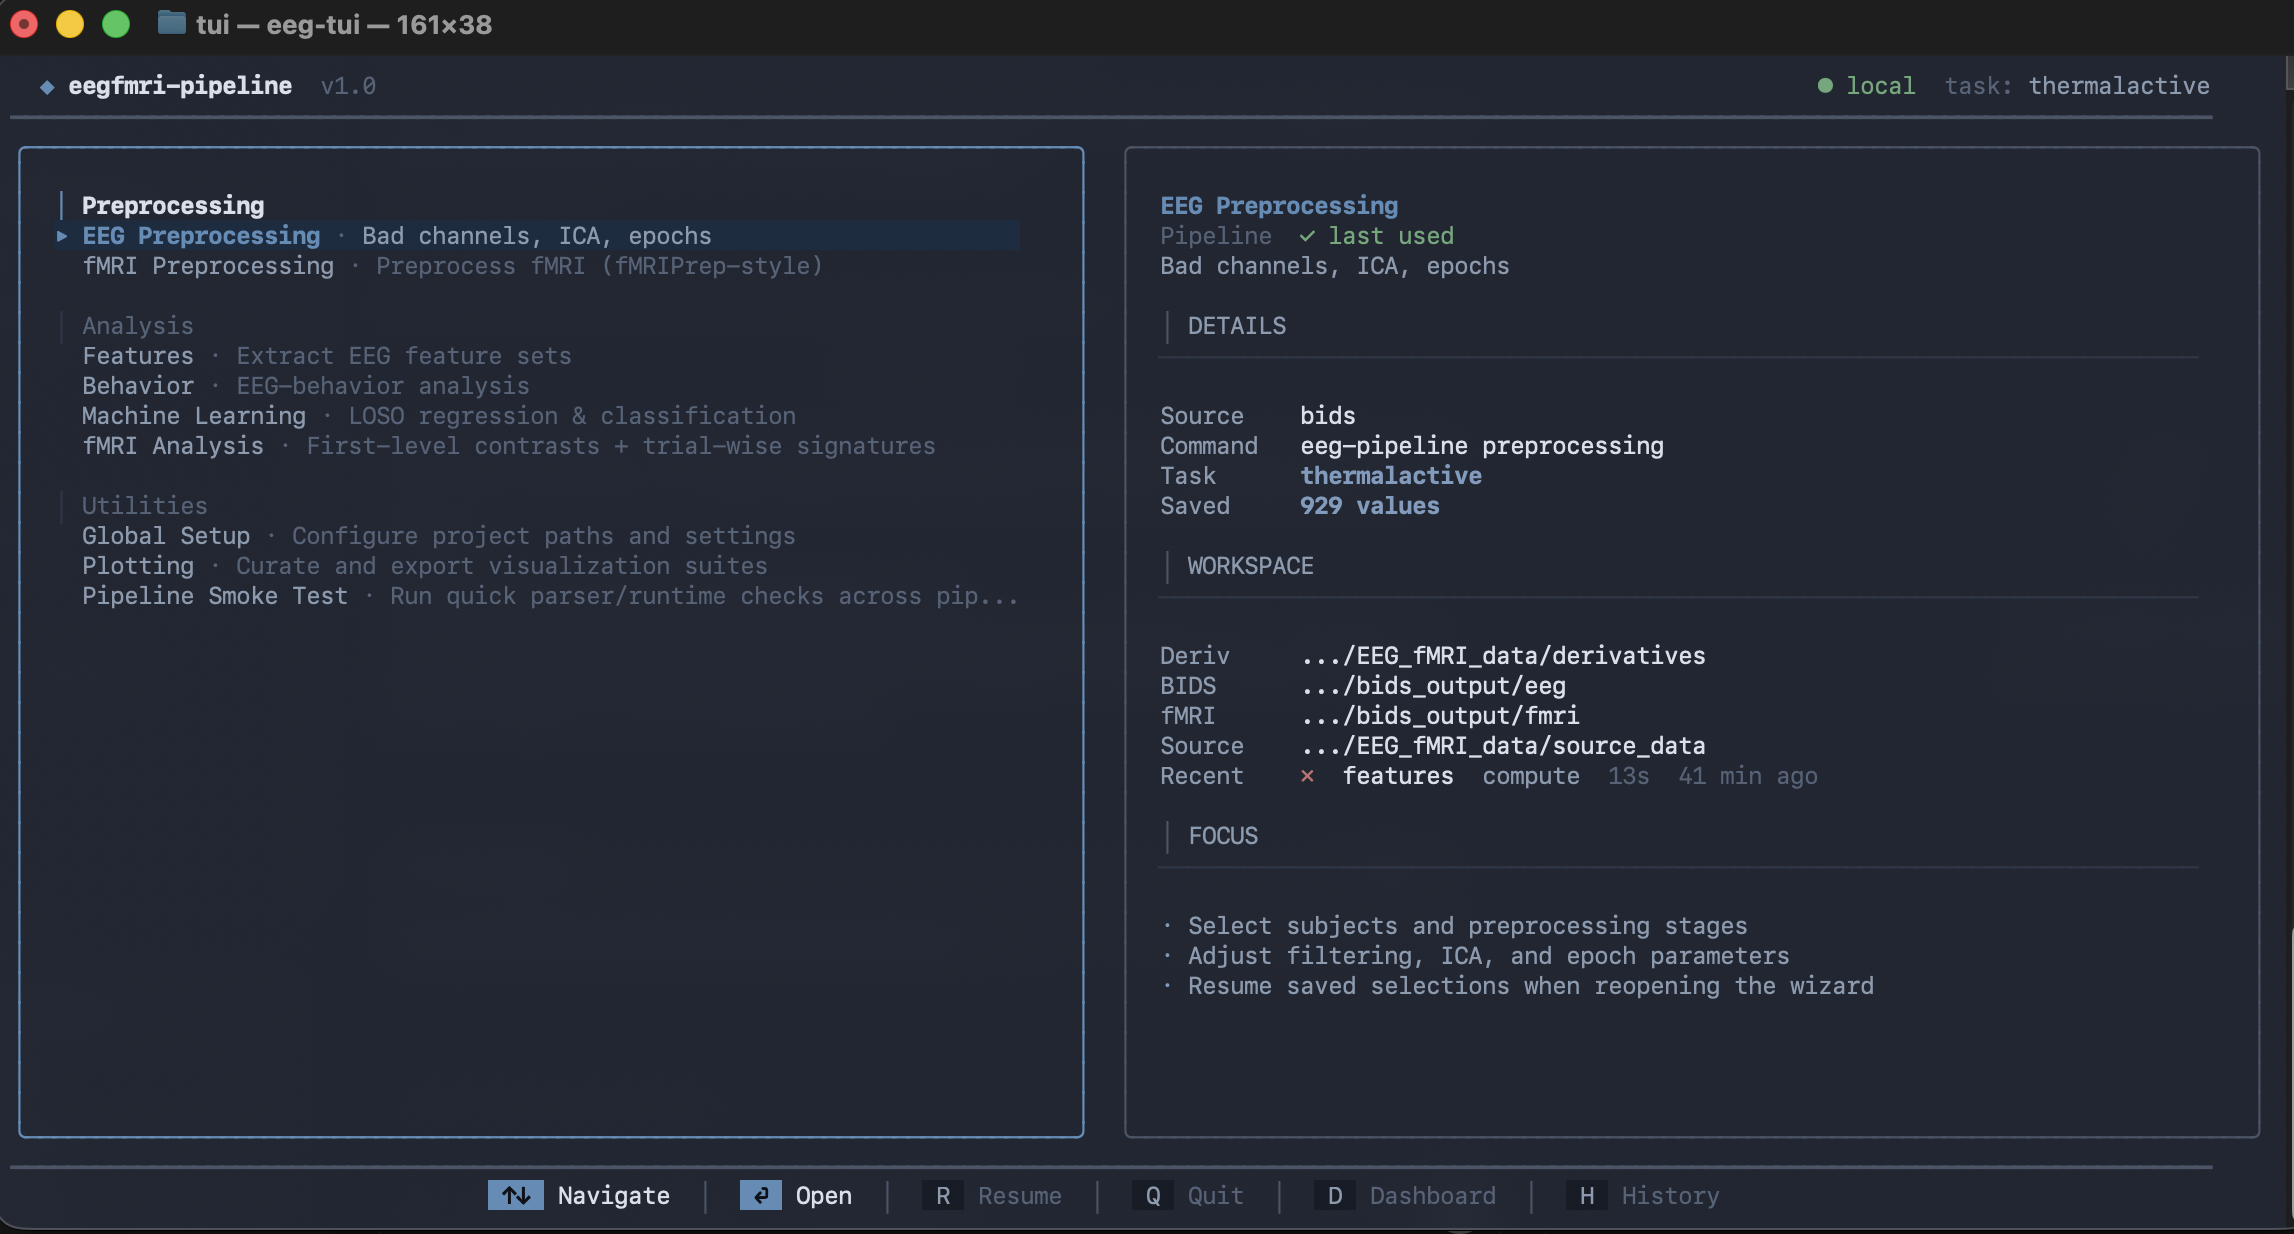
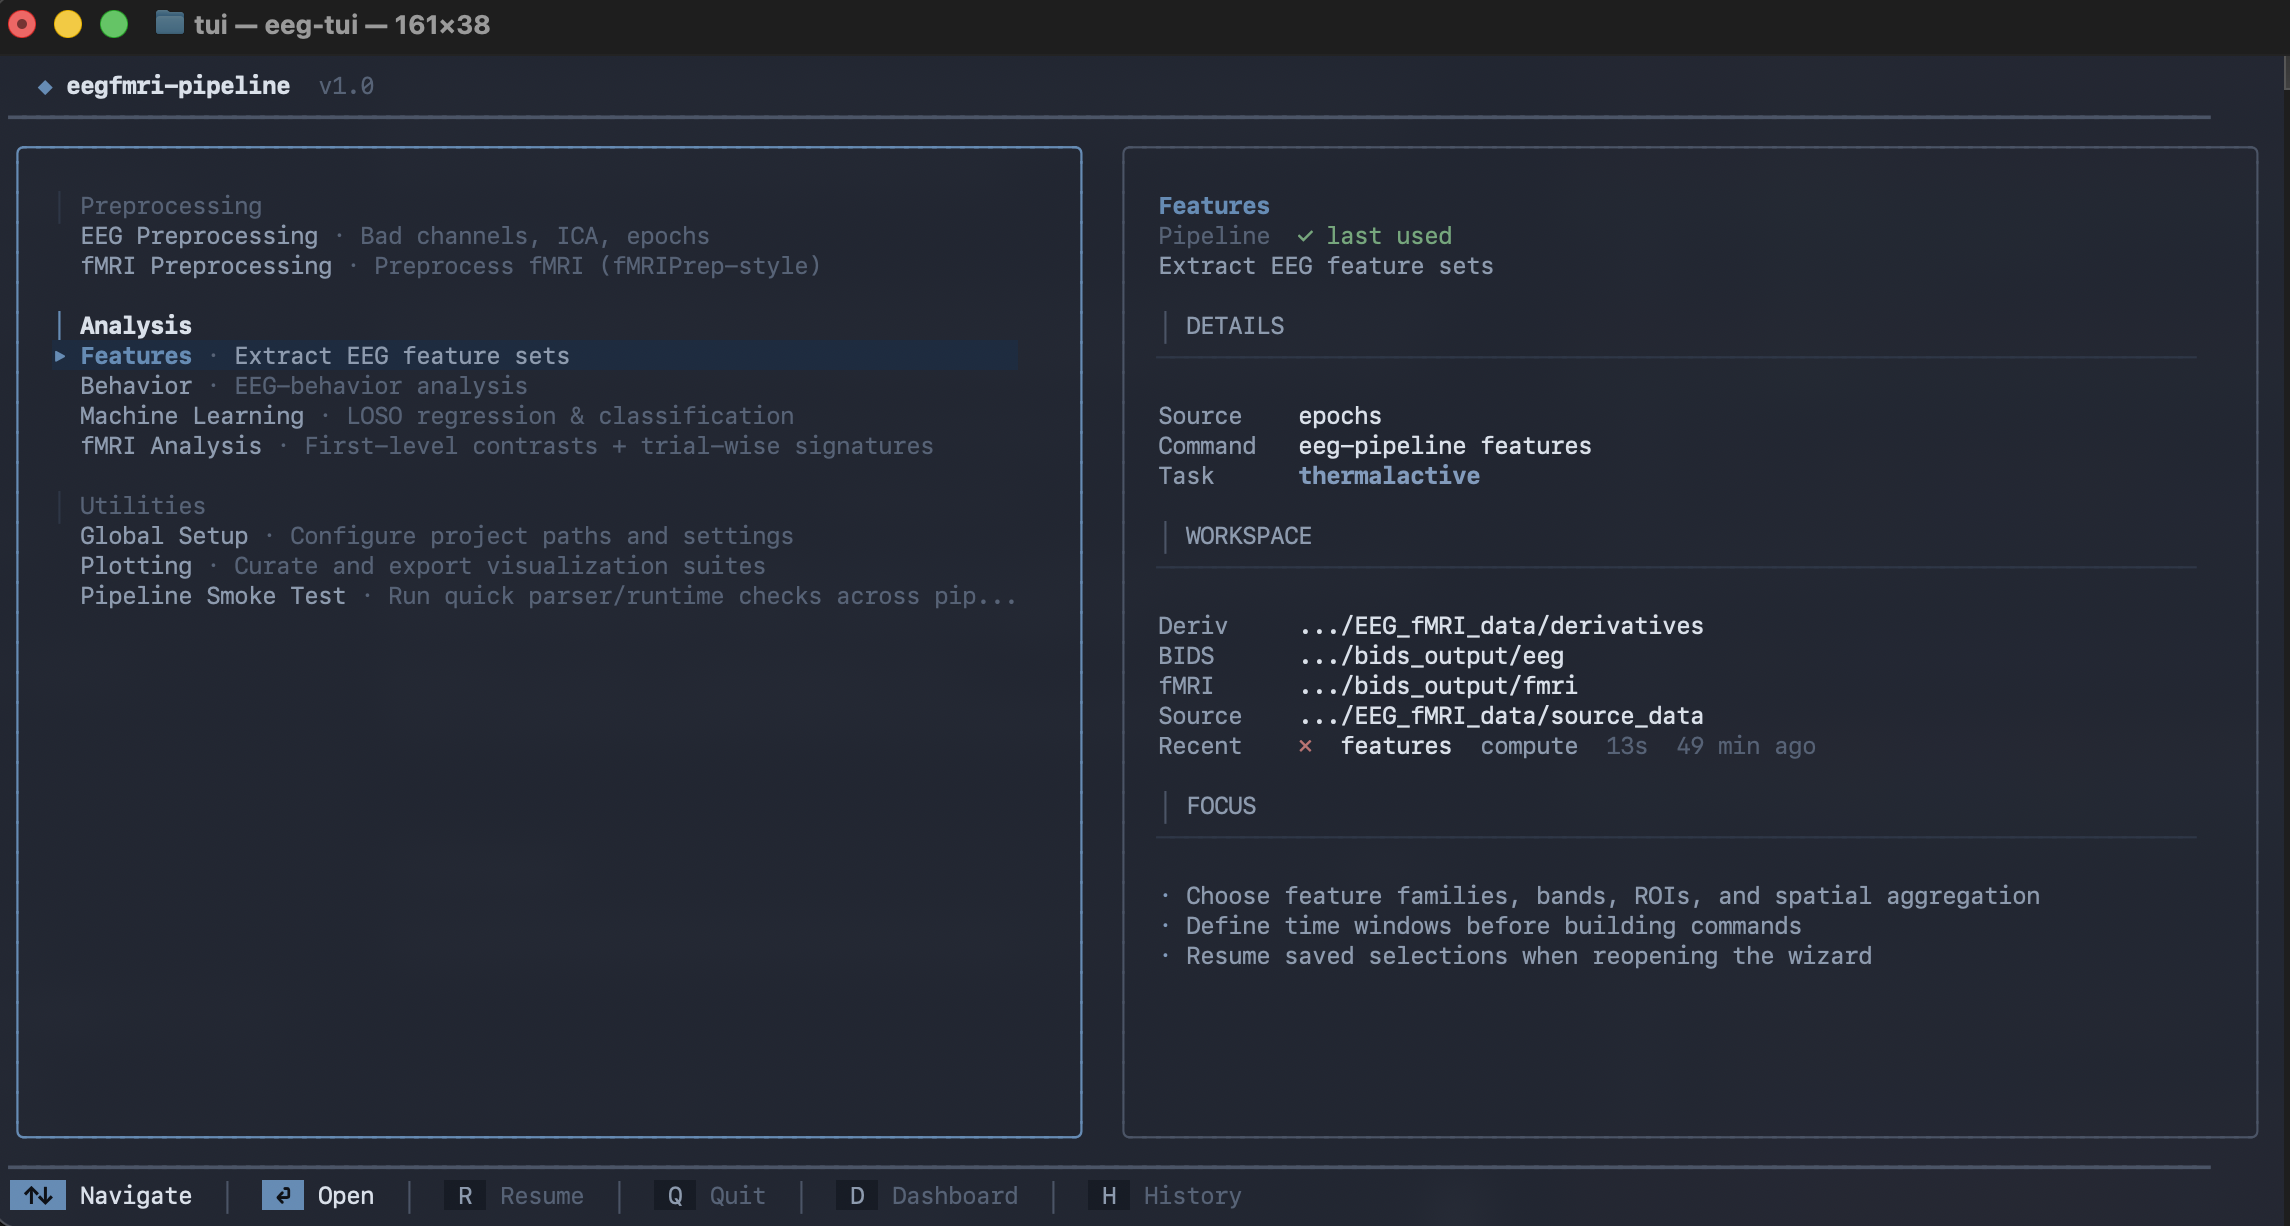
Remove NJobs thermal indicators

diff --git a/eeg_pipeline/cli/tui/views/mainmenu/model.go b/eeg_pipeline/cli/tui/views/mainmenu/model.go
@@ -443,25 +443,7 @@ func (m Model) renderHeader() string {
 	glyph := lipgloss.NewStyle().Foreground(styles.Primary).Render("◆")
 	logo := lipgloss.NewStyle().Bold(true).Foreground(styles.Text).Render("eegfmri-pipeline")
 	version := lipgloss.NewStyle().Foreground(styles.Muted).Render("v1.0")
-	brand := "  " + glyph + " " + logo + "  " + version
-
-	envBadge := lipgloss.NewStyle().Foreground(styles.Success).Render(styles.ActiveMark + " local")
-	statusParts := []string{envBadge}
-	if task := strings.TrimSpace(m.Task); task != "" && task != "task" && lineWidth >= 72 {
-		taskLabel := lipgloss.NewStyle().Foreground(styles.Muted).Render("task:")
-		taskValue := lipgloss.NewStyle().Foreground(styles.TextDim).Render(task)
-		statusParts = append(statusParts, taskLabel+" "+taskValue)
-	} else if lineWidth >= 72 {
-		statusParts = append(statusParts, lipgloss.NewStyle().Foreground(styles.Muted).Render("task: unset"))
-	}
-	status := strings.Join(statusParts, "  ")
-
-	titleRow := lipgloss.JoinHorizontal(
-		lipgloss.Top,
-		brand,
-		lipgloss.NewStyle().Width(max(lineWidth-lipgloss.Width(brand)-lipgloss.Width(status), 0)).Render(""),
-		status,
-	)
+	titleRow := "  " + glyph + " " + logo + "  " + version
 
 	return titleRow + "\n" + styles.RenderHeaderSeparator(lineWidth)
 }
@@ -879,10 +861,6 @@ func (m Model) selectedDetail() selectionDetail {
 
 func (m Model) pipelineDetail(item pipelineItem, group string) selectionDetail {
 	pipeline := types.Pipeline(item.pipelineIdx)
-	savedConfig := "not saved"
-	if count := m.savedConfigCount(item.pipelineIdx); count > 0 {
-		savedConfig = fmt.Sprintf("%d values", count)
-	}
 	return selectionDetail{
 		title:       item.name,
 		description: item.description,
@@ -894,7 +872,6 @@ func (m Model) pipelineDetail(item pipelineItem, group string) selectionDetail {
 			{label: "Source", value: pipeline.GetDataSource()},
 			{label: "Command", value: "eeg-pipeline " + pipeline.CLICommand()},
 			{label: "Task", value: m.currentTaskLabel(), accent: m.hasConfiguredTask()},
-			{label: "Saved", value: savedConfig, accent: savedConfig != "not saved"},
 		},
 	}
 }
@@ -902,10 +879,6 @@ func (m Model) pipelineDetail(item pipelineItem, group string) selectionDetail {
 func (m Model) utilityDetail(item utilityItem) selectionDetail {
 	if item.pipelineIdx >= 0 {
 		pipeline := types.Pipeline(item.pipelineIdx)
-		savedConfig := "not saved"
-		if count := m.savedConfigCount(item.pipelineIdx); count > 0 {
-			savedConfig = fmt.Sprintf("%d values", count)
-		}
 		return selectionDetail{
 			title:       item.name,
 			description: item.description,
@@ -917,7 +890,6 @@ func (m Model) utilityDetail(item utilityItem) selectionDetail {
 				{label: "Source", value: pipeline.GetDataSource()},
 				{label: "Command", value: item.command},
 				{label: "Task", value: m.currentTaskLabel(), accent: m.hasConfiguredTask()},
-				{label: "Saved", value: savedConfig, accent: savedConfig != "not saved"},
 			},
 		}
 	}
@@ -1035,9 +1007,6 @@ func (m Model) renderSelectedMetaLine(detail selectionDetail) string {
 		parts = append(parts, value)
 	}
 	if value := m.detailValue(detail, "Scope"); value != "" {
-		parts = append(parts, value)
-	}
-	if value := m.detailValue(detail, "Saved"); value != "" && value != "not saved" {
 		parts = append(parts, value)
 	}
 	if len(parts) == 0 {

diff --git a/eeg_pipeline/cli/tui/views/mainmenu/model_test.go b/eeg_pipeline/cli/tui/views/mainmenu/model_test.go
@@ -101,12 +101,11 @@ func TestView_WideLayoutShowsPipelinePreviewPane(t *testing.T) {
 	view := normalizeWhitespace(m.View())
 
 	required := []string{
-		"Selected",
 		"Behavior",
-		"Details",
+		"DETAILS",
 		"eeg-pipeline behavior",
 		"Task stroop",
-		"Focus",
+		"FOCUS",
 	}
 	for _, item := range required {
 		if !strings.Contains(view, normalizeWhitespace(item)) {
@@ -153,7 +152,7 @@ func TestView_WideLayoutMarksLastUsedPipeline(t *testing.T) {
 
 	view := normalizeWhitespace(m.View())
 
-	if !strings.Contains(view, "Last used") {
+	if !strings.Contains(view, normalizeWhitespace("last used")) {
 		t.Fatalf("expected preview pane to mark the restored pipeline as last used\nview:\n%s", view)
 	}
 }
@@ -165,9 +164,6 @@ func TestView_WideLayoutShowsSessionSummaryAndRecentRuns(t *testing.T) {
 	m.currentSection = SectionAnalysis
 	m.analysisCursor = 1
 	m.SetLastPipeline(int(types.PipelineBehavior))
-	m.SetSavedConfigCounts(map[int]int{
-		int(types.PipelineBehavior): 128,
-	})
 	m.SetConfigSummary(HomeConfigSummary{
 		Task:               "stroop",
 		DerivRoot:          "/tmp/project/derivatives",
@@ -195,8 +191,7 @@ func TestView_WideLayoutShowsSessionSummaryAndRecentRuns(t *testing.T) {
 
 	required := []string{
 		"Behavior",
-		"128 values",
-		"Workspace",
+		"WORKSPACE",
 		"stroop",
 		"behavior",
 		"2 hr ago",
@@ -222,9 +217,6 @@ func TestView_StandardLayoutShowsSummaryRow(t *testing.T) {
 	m.currentSection = SectionAnalysis
 	m.analysisCursor = 1
 	m.SetLastPipeline(int(types.PipelineBehavior))
-	m.SetSavedConfigCounts(map[int]int{
-		int(types.PipelineBehavior): 128,
-	})
 	m.SetConfigSummary(HomeConfigSummary{
 		Task: "stroop",
 	})
@@ -241,9 +233,8 @@ func TestView_StandardLayoutShowsSummaryRow(t *testing.T) {
 
 	required := []string{
 		"Session",
-		"Last Behavior 128 saved",
+		"Last Behavior",
 		"Task stroop",
-		"Selected",
 		"Behavior",
 		"eeg-pipeline behavior",
 	}
@@ -273,7 +264,6 @@ func TestView_StandardLayoutDropsSummaryRowInShortWindow(t *testing.T) {
 
 	normalized := normalizeWhitespace(view)
 	required := []string{
-		"Choose Workflow",
 		"Preprocessing",
 		"Analysis",
 		"Utilities",
